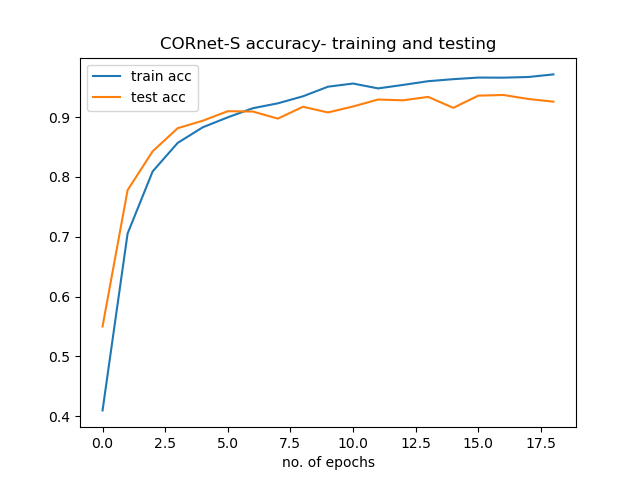
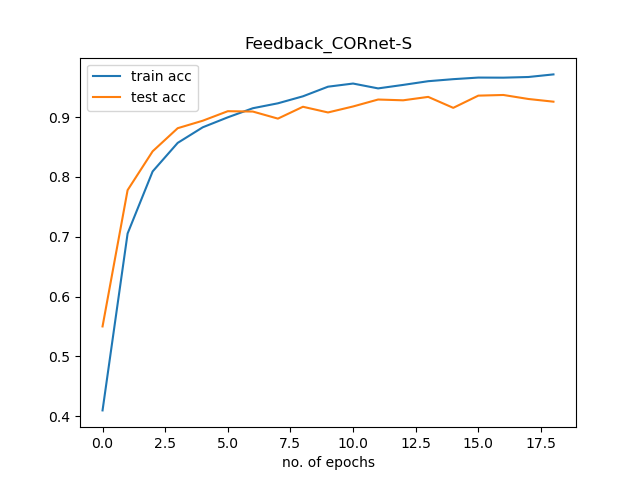
plot titles

Changed region(s): [[0.25, 0.0625, 0.7812, 0.125]]

diff --git a/plot_loss.py b/plot_loss.py
@@ -17,7 +17,7 @@ def plot_loss(args):
     accuracy = np.load(f'plots/{args.model_name}_{args.feedback_connections}_accuracy.npy', allow_pickle=True)
 
     plt.plot(train_loss,label='train loss')
-    plt.title(f'{feedback}_{args.model_name}')
+    plt.title(f'{feedback} {args.model_name}')
     plt.xlabel('no. of minibatches')
     plt.legend()
     plt.savefig(f'plots/{args.model_name}_{args.feedback_connections}_batchloss.png')
@@ -26,7 +26,7 @@ def plot_loss(args):
     train_loss = train_loss.reshape((len(test_loss), int(len(train_loss)/len(test_loss)))).mean(axis=1)
     plt.plot(train_loss,label='train loss')
     plt.plot(test_loss,label='test loss')
-    plt.title(f'{feedback}_{args.model_name}')
+    plt.title(f'{feedback} {args.model_name}')
     plt.xlabel('no. of epochs')
     plt.legend()
     plt.savefig(f'plots/{args.model_name}_{args.feedback_connections}_loss.png')
@@ -34,7 +34,7 @@ def plot_loss(args):
 
     plt.plot(accuracy[0],label='train acc')
     plt.plot(accuracy[1],label='test acc')
-    plt.title(f'{feedback}_{args.model_name}')
+    plt.title(f'{feedback} {args.model_name}')
     plt.xlabel('no. of epochs')
     plt.legend()
     plt.savefig(f'plots/{args.model_name}_{args.feedback_connections}_acc.png')
